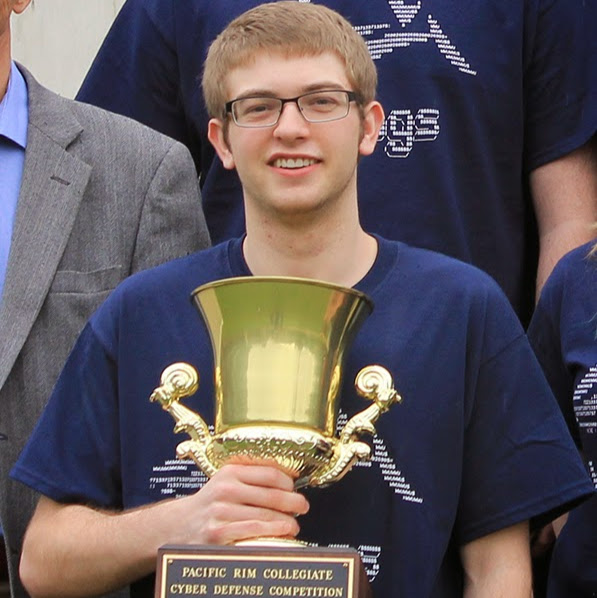
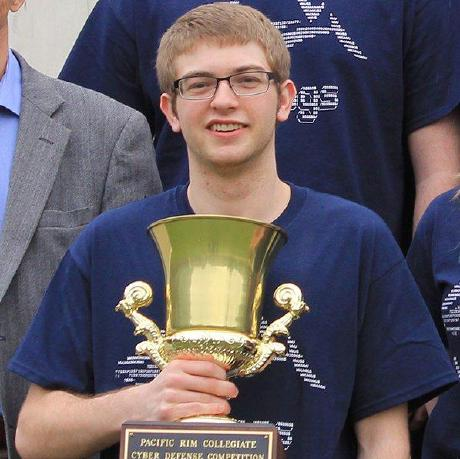
Updated about me information and aedded shellshock post

diff --git a/source/_posts/Shellshock.md b/source/_posts/Shellshock.md
@@ -1,0 +1,29 @@
+title: Shellshock
+date: 2014-11-05 20:27:54
+tags: Exploits
+categories: Security
+---
+
+It's been a little while since the ShellShock vulnerability (CVE-2014-6271, CVE-2014-6277, CVE-2014-6278, CVE-2014-7169, CVE-2014-7186, CVE-2014-7187) was released, but I want to share the proof of concept app I wrote shortly after it was released to show a coworker why it was relavent. The example app can be found on GitHub [here](https://github.com/aig787/Personal/tree/master/Examples/CVE-2014-6271) so you can check out the (albeit short and simple) source code if you want.
+
+The example I read and heard most often when talking about the vulnerability was that if people were using bash scripts for their CGI (which means they're basically asking for it) but that isn't particularly interesting and doesn't feel relevant to me. Because the exploit affects everything that uses bash, it makes other applications and languages vulnerable simply because they use a foundational tool of sysadmins and programmers.
+
+Python is a widely used language for many things, including web development because of frameworks like Django and Bottle/Flask. It turns out all you need to get arbitrary code execution with a Bottle web application is a lazy programmer, a questionable choice by the operating system, and ShellShock. Many (most) Linux distributions have sh symlinked to bash. Ordinarily this wouldn't be a problem, but in this instance it exposed many thing to the vulnerability than should have been. 
+
+The web app I used for the proof of concept is a simple utility to check for running processes on the server. It seems a little bit convoluted, but it really isn't, I've seen sites like this all over the real world including recently at my university. Now, why was the developer lazy?
+
+```python
+out = subprocess.check_output('ps -ef | grep ' + process, shell=True)
+```
+
+The mistake in this line should be glaringly obvious. The best practice for using the subprocess module in Python includes two fixes: not running it in a shell, and splitting the parameters up in a list before passing them in. This takes more work, especially in this example because it would require a few more calls to subprocess to handle the piping, and the user input would need to be validated. Fixing this alone would result in the application doing what you expected it to.
+
+The other bit that would stop this exploit from working is not symlinking sh to bash. Arch Linux, Fedora, and every other distribution I looked at except surprisingly enough Ubuntu had that. By default, even with the shell=True option set, Python will try to bring open sh shell (principle of least privilege) and because sh isn't affected by this particular vulnerability everything would have been fine.
+
+Now on to the exploit itelf.
+```
+ "123456789"; env x='() { :;}; echo $(<your command here>) ' bash -c "echo this is a test"  
+```
+If this string is entered into the input box whatever is entered in for <your command here> will be executed in the context of the user running the webserver. Since we know our programmer is lazy it isn't hard to believe the user will be running with more privilege than it needs. 
+
+And there we have arbitrary code execution. If they have the app running as root, it's game over. Password hashes can be catted to the screen and broken. Even if it's running as an unprivileged user there's a lot you can get away with.

diff --git a/source/about/index.md b/source/about/index.md
@@ -2,5 +2,13 @@ title: About Me
 date: 2014-11-03 23:17:05
 ---
 
+<img src='about.jpg' alt='About Me' style="width:40%;height=40%">
 
-![About Me](about.jpg)
+I'm a security practitioner and independent software engineer with experience in many different languages including Python, Java, C, Ada and many others. I've been developing software for about 7 years including 3 years working on projects professionally. I have experience developing on and for all platorms (Windows, Mac, *nix) and have written apps for both iPhone and Android.
+
+In addition to my experience in software design I have experience in information security and that is my main area of interest. I am the captain of Western Washington University's Collegiate Cyber Defense Team, which took first in the [Pacific Rim Regional Cyber Defense Competition](http://seattletimes.com/html/localnews/2023462131_westerncyberxml.html) and went on to take 4th in the national competiton. Following the competition I had a security practice internship with Splunk helping to develop security software for them.
+
+Resume is available on request.
+
+##Contact info:##
+E-Mail: <aaron@aaronscottgriffin.com>

diff --git a/source/_posts/gitwatch.md b/source/_posts/gitwatch.md
@@ -1,5 +1,6 @@
 title: Automatic Commits with Gitwatch
 date: 2014/05/22
+tags: Git
 categories:
 - Tutorials
 ---

diff --git a/source/_posts/git-dreamhost.md b/source/_posts/git-dreamhost.md
@@ -1,5 +1,6 @@
 title: Git Repository with Dreamhost
 date: 2014/05/20
+tags: Git
 categories:
 - Tutorials
 ---

diff --git a/source/_posts/gitlist.md b/source/_posts/gitlist.md
@@ -1,5 +1,6 @@
 title: GitList on Dreamhost
 date: 2014/05/21
+tags: Git
 categories:
 - Tutorials
 ---
